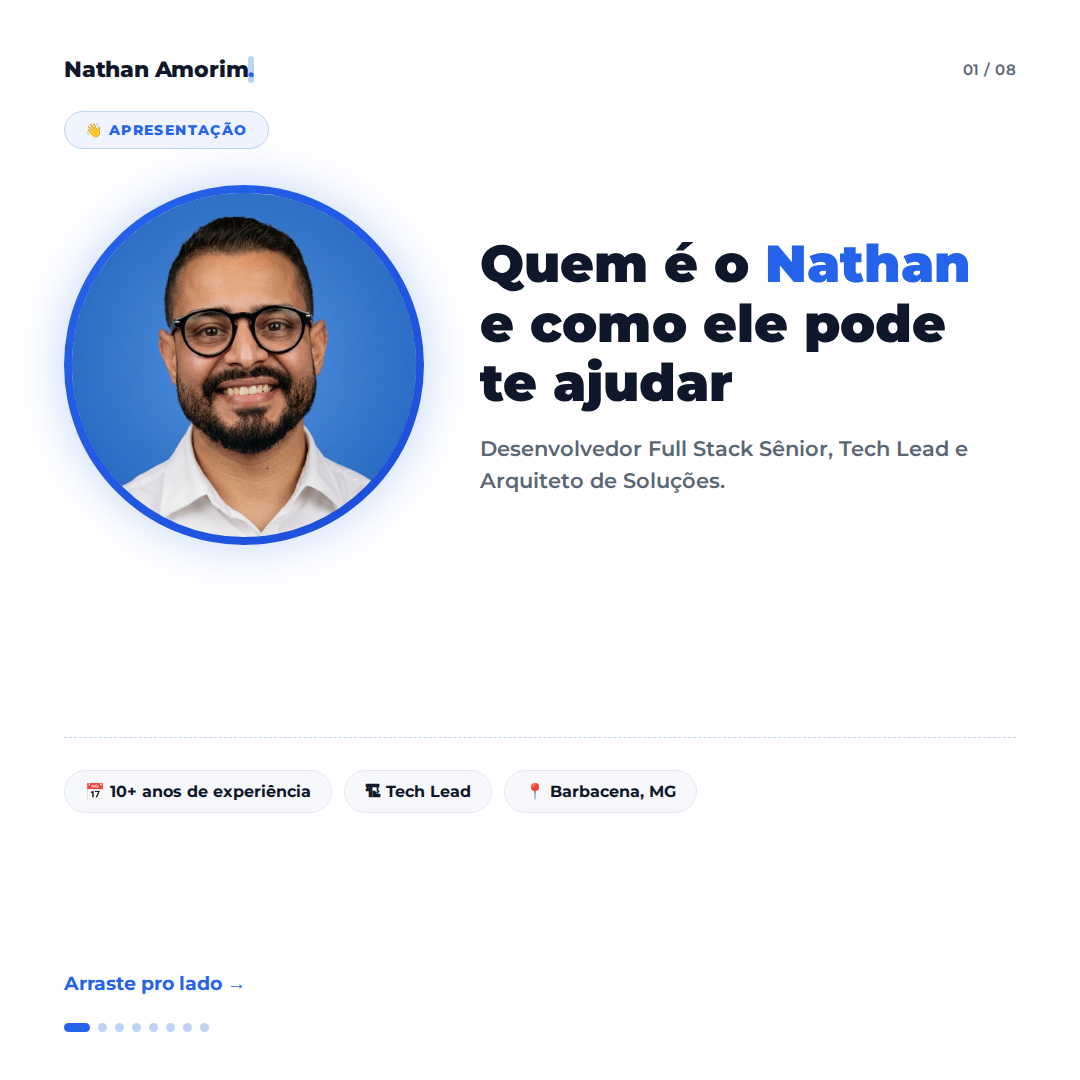
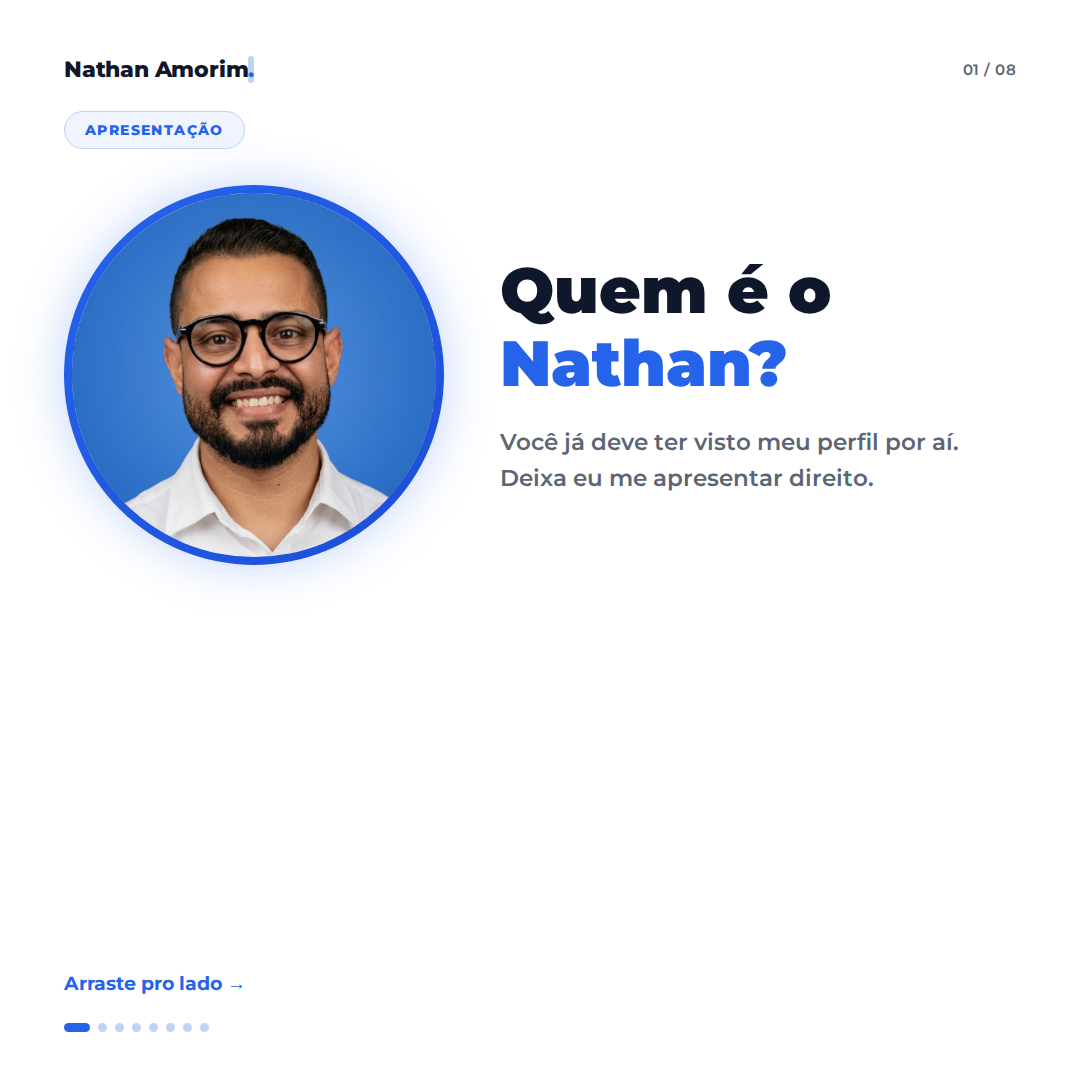
Reescreve carrossel "Quem é o Nathan" em linguagem simples, sem emojis
Capa passa a trazer só a pergunta "Quem é o Nathan?" (foto + pergunta),
com a resposta construída aos poucos nos slides seguintes. Todo o texto
foi reescrito sem jargão técnico (SaaS, APIs, dashboards, arquitetura,
etc.) para ser entendido por público leigo, e nenhum emoji foi usado —
os ícones dos 4 "o que eu faço" viraram números simples.

diff --git a/sdd/marketing/social/carrossel-02-quem-e-nathan/README.md b/sdd/marketing/social/carrossel-02-quem-e-nathan/README.md
@@ -1,21 +1,22 @@
 # Carrossel 02 — Quem é o Nathan
 
 Carrossel de 8 slides (1080×1080) sobre o pilar de conteúdo "Quem é Nathan
-Amorim e como ele pode ajudar": apresentação pessoal (nome, cargo, tempo de
-experiência, localização), os 4 pilares de serviço que ele oferece, o porquê
-por trás da forma de trabalhar (processo antes de tecnologia) e um convite
-para conversar.
+Amorim e o que ele faz", escrito em linguagem simples para público leigo
+(sem termo técnico) e sem uso de emojis. A capa apresenta só a pergunta
+("Quem é o Nathan?") e a resposta vai sendo construída aos poucos, slide a
+slide: primeiro quem ele é, depois o que ele faz na prática (4 partes), o
+porquê da forma de trabalhar, e por fim o convite para conversar.
 
 ## Fonte do conteúdo
-Texto e narrativa 100% reaproveitados do conteúdo já publicado na home do
-site (`src/pages/index.astro`): seção hero/`.hero-card` (nome, cargo, "10+
-anos", "3+ anos como Tech Lead", "1 empresa fundada", tagline "Resolvedor de
-problemas, com tecnologia"), `solutions` (os 4 pilares — Sistemas e produtos
-digitais, Integrações e automação, Inteligência Artificial aplicada,
-Arquitetura e modernização), `.why-card` (a citação "Qual tecnologia vamos
-usar?" vs. "Qual problema precisamos resolver?") e o CTA final "💬 Falar
-sobre meu projeto". Nenhum fato novo sobre o Nathan foi criado — o carrossel
-é uma tradução do conteúdo já existente no site para formato de post.
+Texto e narrativa reaproveitados do conteúdo já publicado na home do site
+(`src/pages/index.astro`): seção hero/`.hero-card` (nome, "10+ anos", "3+
+anos como Tech Lead", "1 empresa fundada"), `solutions` (os 4 pilares —
+Sistemas e produtos digitais, Integrações e automação, Inteligência
+Artificial aplicada, Arquitetura e modernização, aqui reescritos em
+linguagem simples/sem jargão a pedido do Nathan, mas sem inventar serviço
+novo) e `.why-card` (a citação "Qual tecnologia vamos usar?" vs. "Qual
+problema precisamos resolver?"). O chip "Cristão" no slide 02 é um dado
+pessoal informado diretamente pelo Nathan, não extraído do site.
 
 ## Identidade visual
 Extraída diretamente do design system em produção do site
@@ -23,25 +24,29 @@ Extraída diretamente do design system em produção do site
 #1d4ed8`, `--amber #d97706`, `--red #dc2626`, `--panel`/`--panel-border`),
 tipografia Montserrat (única fonte do projeto), padrão de "eyebrow" pill e
 cards com `border-radius: 12px`. Foto usada: `src/assets/avatar.jpg` — a
-mesma foto do site (`src/presentation/components/Avatar.astro`) e do
-carrossel 01, embutida sem alteração (não há logotipo em SVG no projeto — a
-identidade usa o wordmark em texto "Nathan Amorim.", mesmo tratamento visual
-do carrossel 01, incluindo o ponto final em cyan).
+mesma foto do site (`src/presentation/components/Avatar.astro`) e dos
+demais carrosséis, embutida sem alteração (não há logotipo em SVG no
+projeto — a identidade usa o wordmark em texto "Nathan Amorim.", mesmo
+tratamento visual dos carrosséis anteriores, incluindo o ponto final em
+cyan). A pedido explícito do Nathan, nenhum emoji foi usado em nenhum
+slide — os ícones dos 4 "o que eu faço" usam números (1-4) em vez de
+pictogramas, e os textos de eyebrow/tag/botão são só texto.
 
 ## Slides
-1. `01.png` — capa: foto do Nathan de um lado, chamada "Quem é o Nathan e
-   como ele pode te ajudar" do outro
-2. `02.png` — quem sou eu: nome, cargo, tagline, estatísticas (10+ anos,
-   3+ anos como Tech Lead, 1 empresa fundada, IA aplicada a produtos reais)
-   e chips pessoais (Barbacena/MG, Arquitetura de Soluções, Cristão — dado
-   pessoal informado diretamente pelo Nathan, não extraído do site)
-3. `03.png` — como posso ajudar 1/4: Sistemas e produtos digitais
-4. `04.png` — como posso ajudar 2/4: Integrações e automação
-5. `05.png` — como posso ajudar 3/4: Inteligência Artificial aplicada
-6. `06.png` — como posso ajudar 4/4: Arquitetura e modernização
-7. `07.png` — por que trabalhar comigo (citação processo vs. tecnologia)
+1. `01.png` — capa: só a foto do Nathan e a pergunta "Quem é o Nathan?",
+   sem resposta ainda (a resposta é construída nos slides seguintes)
+2. `02.png` — quem sou eu: nome, explicação simples do que faz há mais de
+   10 anos, estatísticas (10+ anos, 3+ anos liderando equipes, 1 empresa
+   fundada, IA usada em projetos reais) e chips pessoais (Barbacena/MG,
+   Cristão)
+3. `03.png` — o que eu faço 1/4: "Eu construo sistemas para empresas"
+4. `04.png` — o que eu faço 2/4: "Eu conecto os programas que você já usa"
+5. `05.png` — o que eu faço 3/4: "Eu uso inteligência artificial pra
+   ajudar no dia a dia"
+6. `06.png` — o que eu faço 4/4: "Eu organizo sistemas que já existem"
+7. `07.png` — por que eu trabalho assim (citação processo vs. tecnologia)
 8. `08.png` — CTA final: "Falar sobre meu projeto" + assinatura
 
 Não existe ainda cronograma de publicação no projeto, então os arquivos não
 seguem numeração de calendário — apenas a ordem do carrossel, seguindo a
-mesma convenção do carrossel 01.
+mesma convenção dos demais carrosséis.
